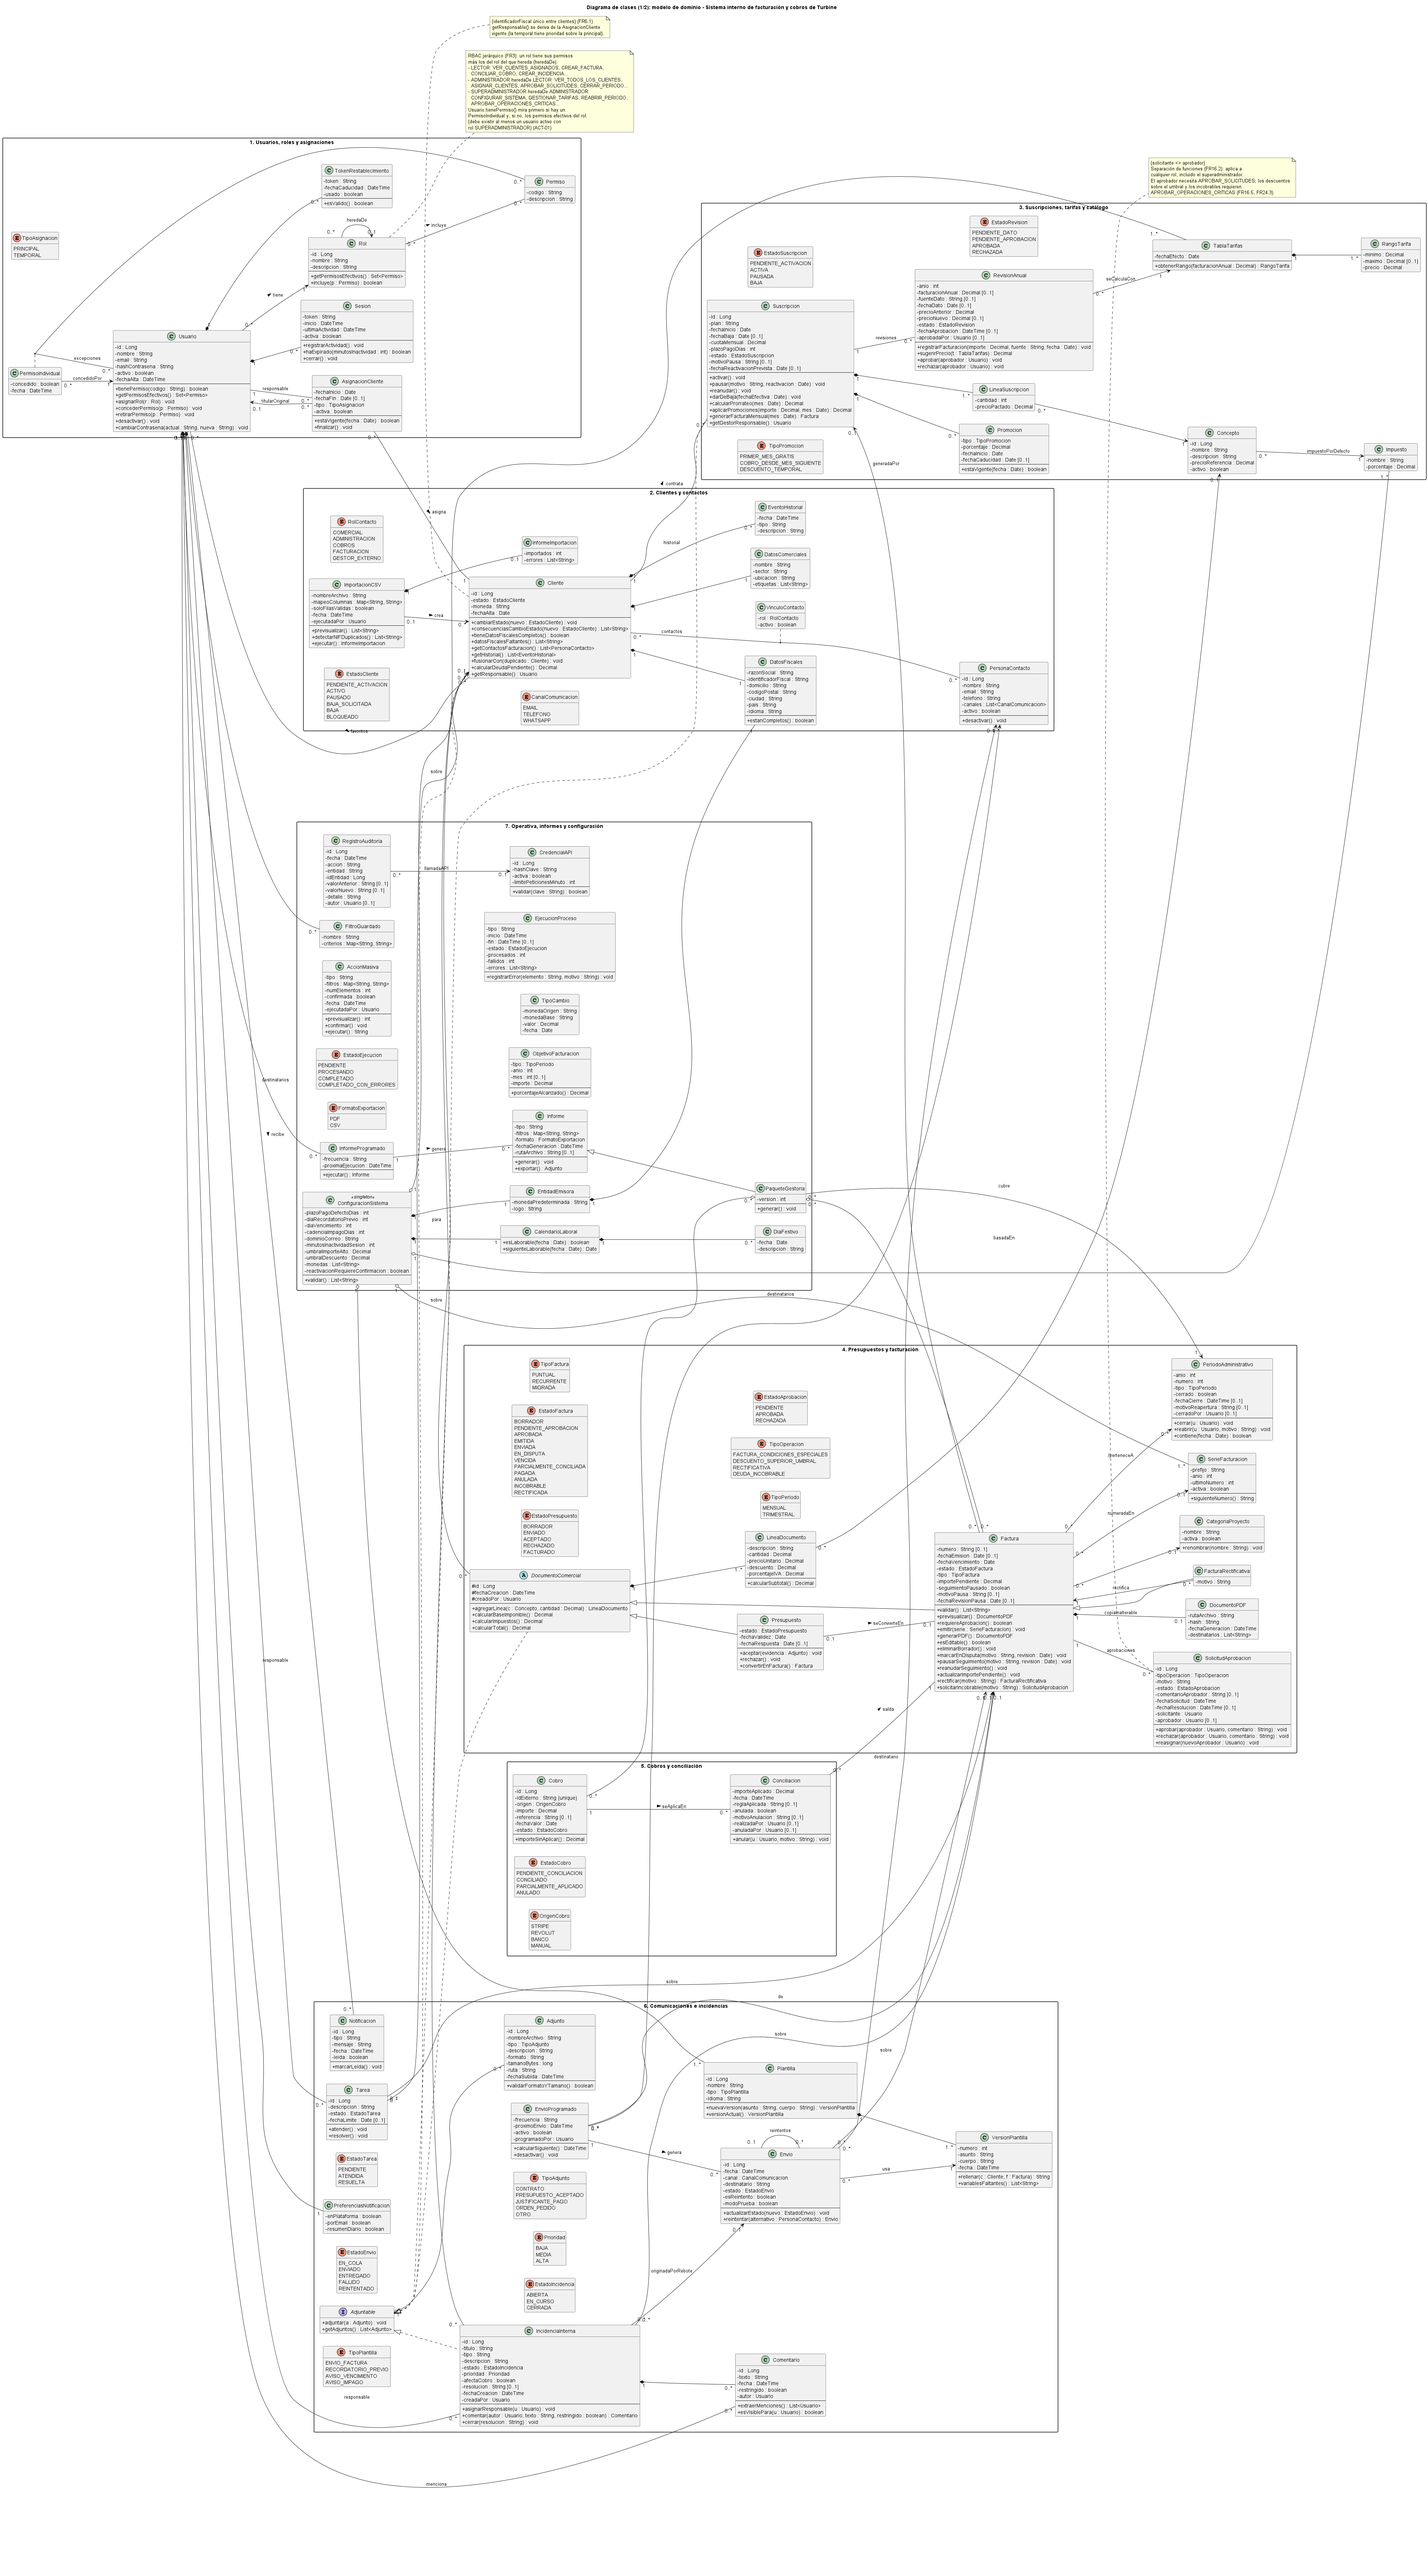
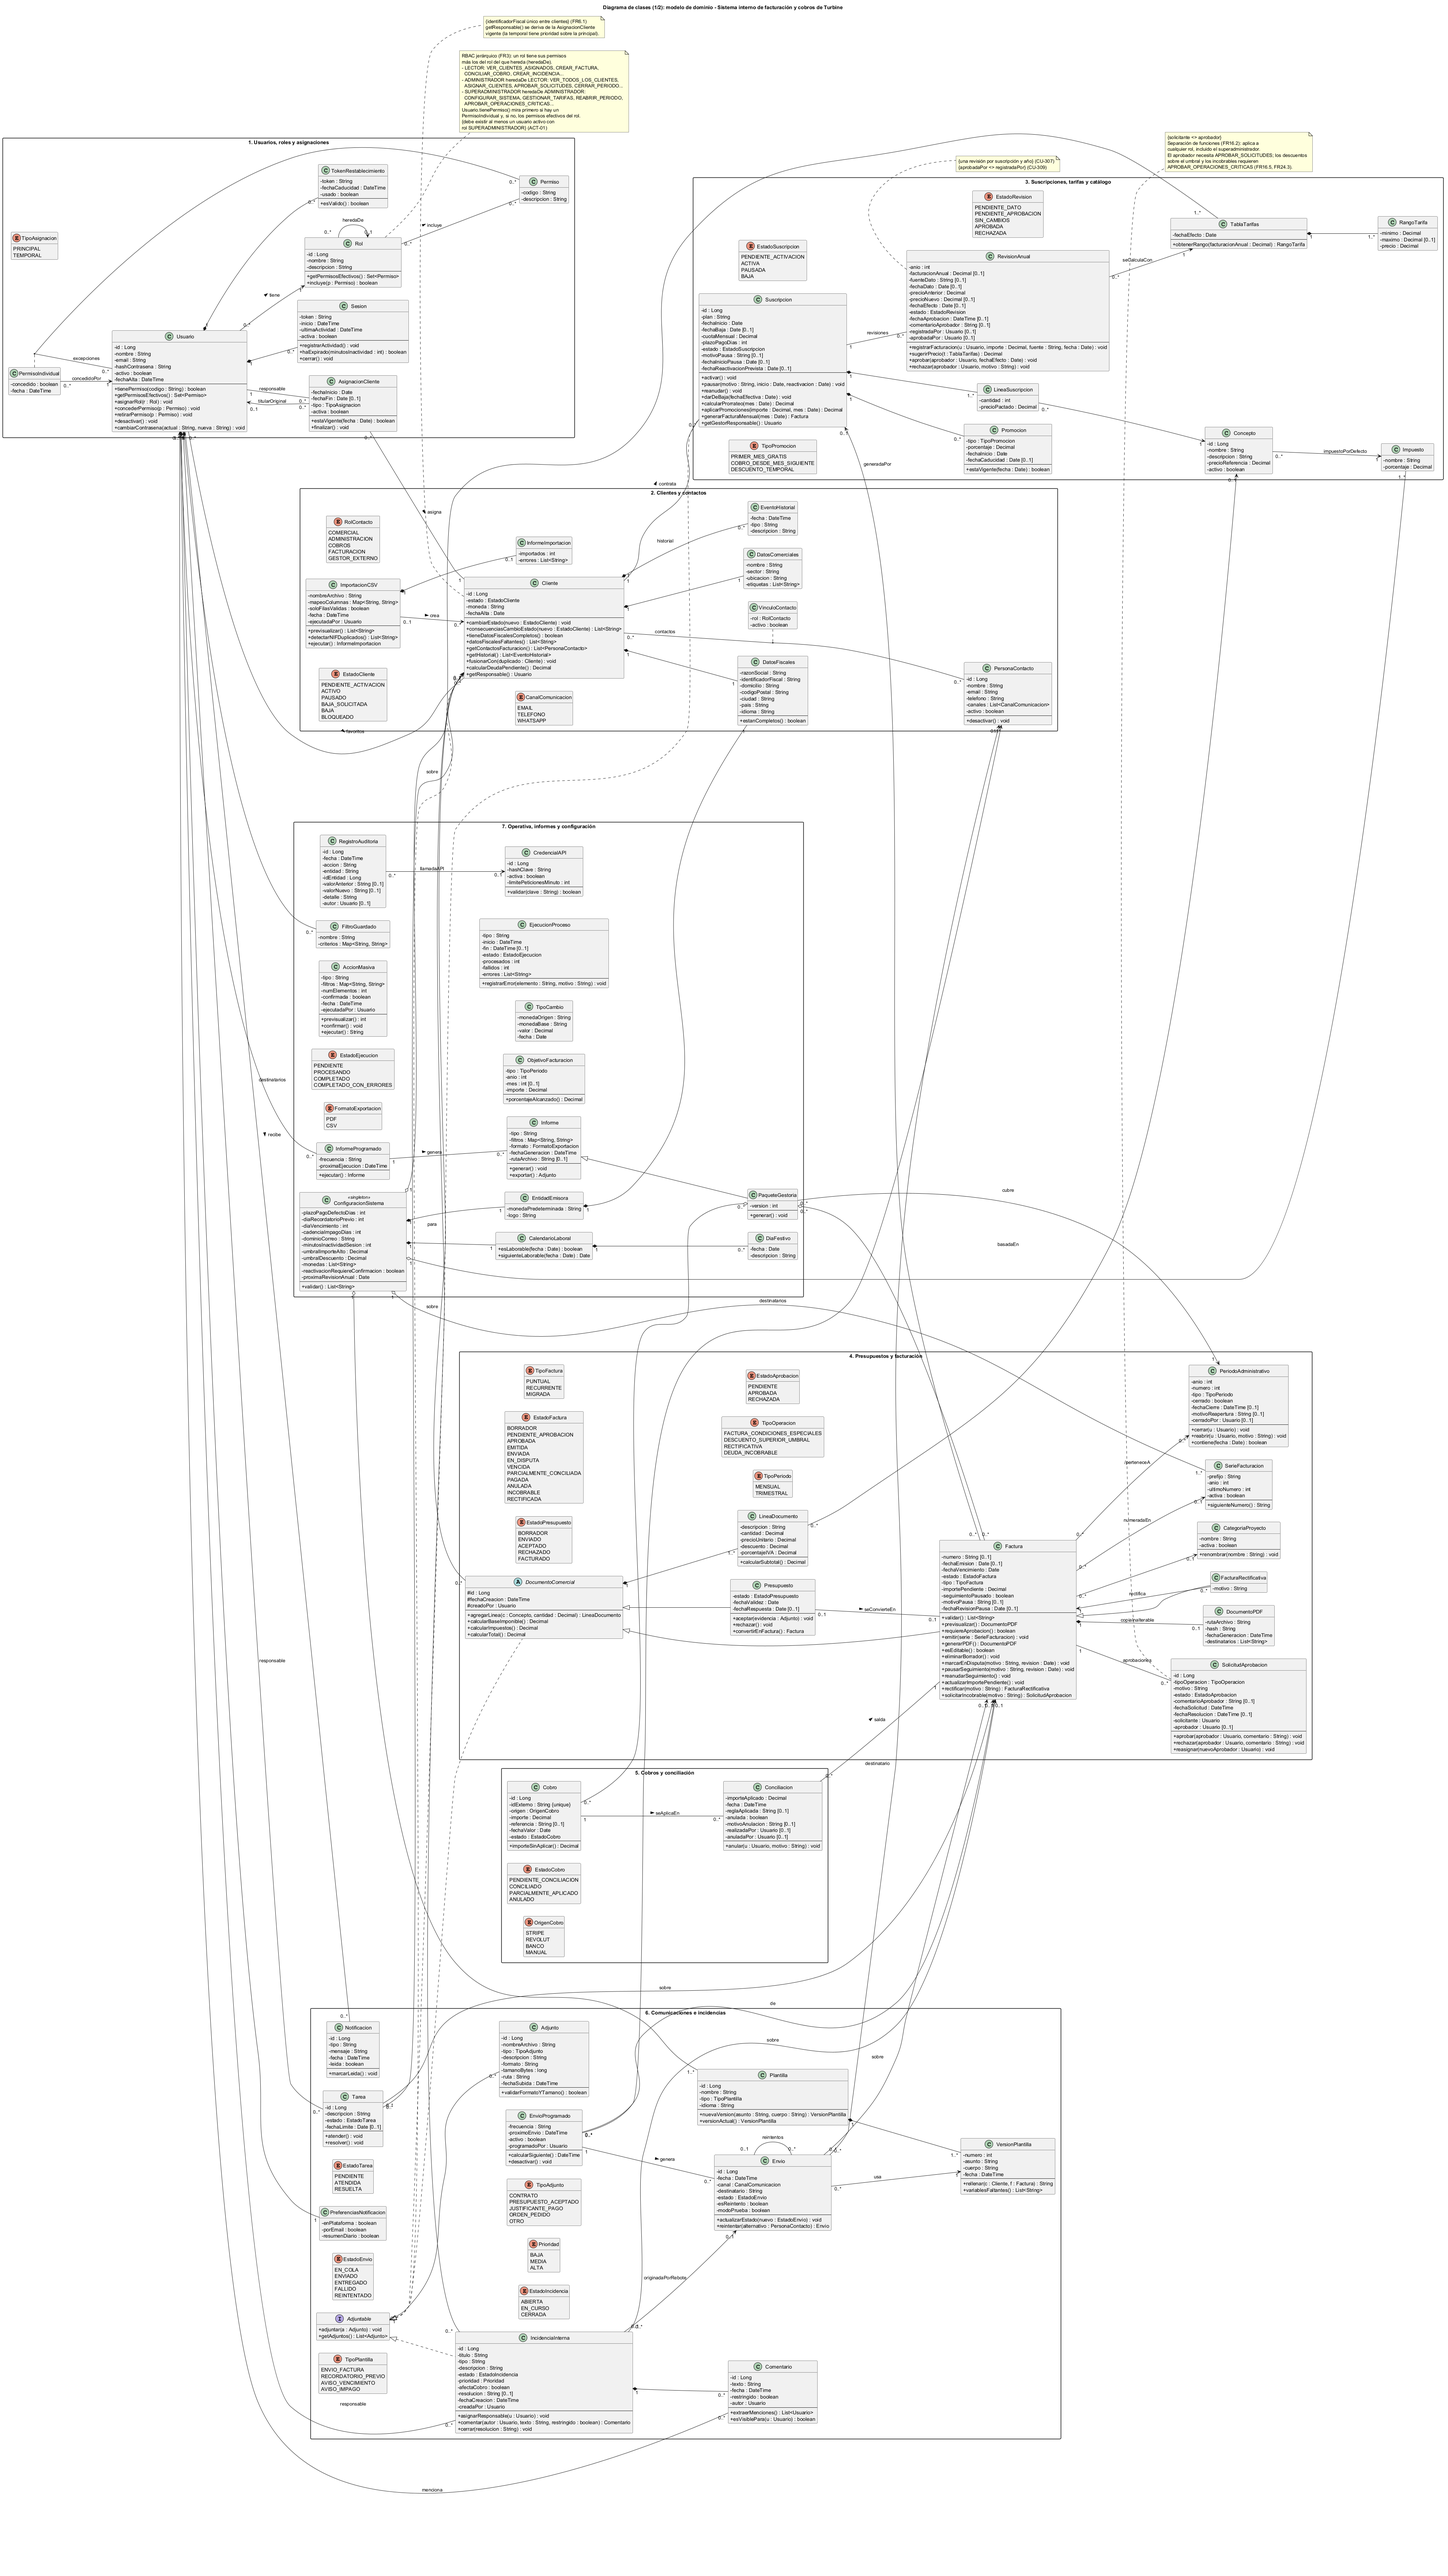
Actualización ER y Clases

diff --git a/Entrega 2/Diagrama físico Entidad-Relación/tablas_del_sistema.md b/Entrega 2/Diagrama físico Entidad-Relación/tablas_del_sistema.md
@@ -85,16 +85,18 @@ El cliente no tiene columna de correo: los correos son de sus personas de contac
 
 | Tabla | De qué se ocupa | Clase de origen | Claves y restricciones |
 |---|---|---|---|
-| `Suscripcion` | Acuerdos de cobro mensual (FR9, FR10). | `Suscripcion` | `fechaBaja`, `motivoPausa` y `fechaReactivacionPrevista` opcionales. |
+| `Suscripcion` | Acuerdos de cobro mensual (FR9, FR10). | `Suscripcion` | `fechaBaja`, `motivoPausa`, `fechaInicioPausa` y `fechaReactivacionPrevista` opcionales. Durante la pausa no se generan mensualidades a partir de `fechaInicioPausa` (CU-303). |
 | `LineaSuscripcion` | Conceptos contratados y precio pactado (FR9.4). | `LineaSuscripcion` | Toda suscripción tiene al menos una línea. |
 | `Promocion` | Promociones y descuentos temporales (FR15.2, FR15.3). | `Promocion` | `fechaCaducidad` opcional. |
 | `Concepto` | Catálogo de conceptos facturables (FR12). | `Concepto` | `idImpuesto` es el impuesto por defecto (FR12.2). |
 | `Impuesto` | Tipos impositivos disponibles. | `Impuesto` | — |
 | `TablaTarifas` | Versiones de la tabla de tarifas, cada una con su fecha de efecto (FR11.2). | `TablaTarifas` | — |
 | `RangoTarifa` | Tramos de facturación anual y su precio. | `RangoTarifa` | `maximo` admite `NULL` en el último tramo (sin límite superior). |
-| `RevisionAnual` | Revisiones anuales de tarifa (FR11.3). | `RevisionAnual` | `idAprobadaPor` y `fechaAprobacion` se rellenan al aprobar. Guarda el precio anterior y el nuevo. |
+| `RevisionAnual` | Revisiones anuales de tarifa (FR11.3). | `RevisionAnual` | `UNIQUE (idSuscripcion, anio)`: relanzar la revisión no la duplica (CU-307). `idRegistradaPor` es quien introdujo el dato de facturación. `idAprobadaPor`, `fechaAprobacion` y `comentarioAprobador` se rellenan al aprobar o rechazar, y `fechaEfecto` al aprobar (CU-309). Guarda el precio anterior y el nuevo. |
 
 El gestor responsable de una suscripción no se guarda en `Suscripcion`: es el responsable del cliente según `AsignacionDeCliente`.
+
+**Regla que no se expresa con claves:** quien registró el dato de facturación no puede aprobar el cambio de tarifa (`idAprobadaPor` distinto de `idRegistradaPor`, CU-309). Se comprueba en la aplicación al aprobar.
 
 ## Bloque 4: Presupuestos y facturación
 
@@ -146,7 +148,7 @@ No hay clave foránea entre `Factura` y `PeriodoAdministrativo`: el periodo de u
 | `InformeProgramado` | Informes periódicos (FR30.9). | `InformeProgramado` | — |
 | `DestinatarioDeInforme` | Usuarios autorizados que reciben cada informe programado. | Asociación `destinatarios` | PK compuesta. |
 | `EntidadEmisora` | Turbine como emisor de las facturas (FR31.1). | `EntidadEmisora` | `idDatosFiscales` único. |
-| `ConfiguracionSistema` | Parámetros globales (FR31.2). | `ConfiguracionSistema` | Tiene una única fila. `monedas` es la lista de códigos ISO admitidos. |
+| `ConfiguracionSistema` | Parámetros globales (FR31.2). | `ConfiguracionSistema` | Tiene una única fila. `monedas` es la lista de códigos ISO admitidos. `proximaRevisionAnual` es el día en que el planificador prepara la siguiente revisión anual de tarifas (CU-307). |
 | `DiaFestivo` | Festivos para adaptar los avisos de impago (FR23.3). | `DiaFestivo` | `fecha` única. |
 | `CredencialAPI` | Credenciales de sistemas externos (FR32.2). | `CredencialAPI` | Se guarda el *hash* de la clave, nunca la clave. |
 | `RegistroAuditoria` | Pista de auditoría (RNF-08). | `RegistroAuditoria` | Solo admite inserciones. `idUsuario` es `NULL` si la acción la hizo un proceso automático o la API (`idCredencialAPI`). |

diff --git a/Entrega 2/Diagrama de clases/clases_del_sistema.md b/Entrega 2/Diagrama de clases/clases_del_sistema.md
@@ -115,7 +115,7 @@ Todos los servicios que atienden a una persona dependen de `ServicioAutorizacion
 | `Impuesto` | Tipo impositivo disponible. |
 | `TablaTarifas` | Tabla de precios por rangos de facturación anual, con fecha de efecto (FR11.2). |
 | `RangoTarifa` | Un tramo de la tabla: mínimo, máximo y precio. |
-| `RevisionAnual` | Revisión de la tarifa de una suscripción: dato de facturación, precio anterior y nuevo, y quién la aprobó (FR11.3). |
+| `RevisionAnual` | Revisión de la tarifa de una suscripción: dato de facturación y quién lo registró, precio anterior y nuevo, fecha de efecto, y quién la aprobó o rechazó y con qué comentario (FR11.3, CU-308, CU-309). |
 
 ### Bloque 4: Presupuestos y facturación (FR13 a FR20)
 | Clase | De qué se ocupa |
@@ -163,7 +163,7 @@ Todos los servicios que atienden a una persona dependen de `ServicioAutorizacion
 | `InformeProgramado` | Informe periódico y sus destinatarios autorizados (FR30.9). |
 | `PaqueteGestoria` | Paquete mensual o trimestral para la gestoría, con versión (FR30.8). |
 | `EntidadEmisora` | Turbine como emisor de las facturas, con sus datos fiscales (FR31.1). |
-| `ConfiguracionSistema` | Parámetros globales: plazos, cadencias, dominio de correo, umbrales (FR31.2). |
+| `ConfiguracionSistema` | Parámetros globales: plazos, cadencias, dominio de correo, umbrales y fecha de la próxima revisión anual (FR31.2, CU-307). |
 | `CalendarioLaboral` | Sabe si un día es laborable para adaptar los avisos de impago (FR23.3). |
 | `DiaFestivo` | Día festivo del calendario. |
 | `CredencialAPI` | Credencial de un sistema externo, independiente de las de los usuarios (FR32.2). |
@@ -179,7 +179,7 @@ Todos los servicios que atienden a una persona dependen de `ServicioAutorizacion
 | `CanalComunicacion` | EMAIL, TELEFONO, WHATSAPP | FR5.5 |
 | `EstadoSuscripcion` | PENDIENTE_ACTIVACION, ACTIVA, PAUSADA, BAJA | FR9.3, FR10 |
 | `TipoPromocion` | PRIMER_MES_GRATIS, COBRO_DESDE_MES_SIGUIENTE, DESCUENTO_TEMPORAL | FR15.2, FR15.3 |
-| `EstadoRevision` | PENDIENTE_DATO, PENDIENTE_APROBACION, APROBADA, RECHAZADA | FR11.3 |
+| `EstadoRevision` | PENDIENTE_DATO, PENDIENTE_APROBACION, SIN_CAMBIOS, APROBADA, RECHAZADA | FR11.3, CU-308 |
 | `EstadoPresupuesto` | BORRADOR, ENVIADO, ACEPTADO, RECHAZADO, FACTURADO | FR13 |
 | `EstadoFactura` | BORRADOR, PENDIENTE_APROBACION, APROBADA, EMITIDA, ENVIADA, EN_DISPUTA, VENCIDA, PARCIALMENTE_CONCILIADA, PAGADA, ANULADA, INCOBRABLE, RECTIFICADA | FR18.1 |
 | `TipoFactura` | PUNTUAL, RECURRENTE, MIGRADA | FR14, FR20.1 |
